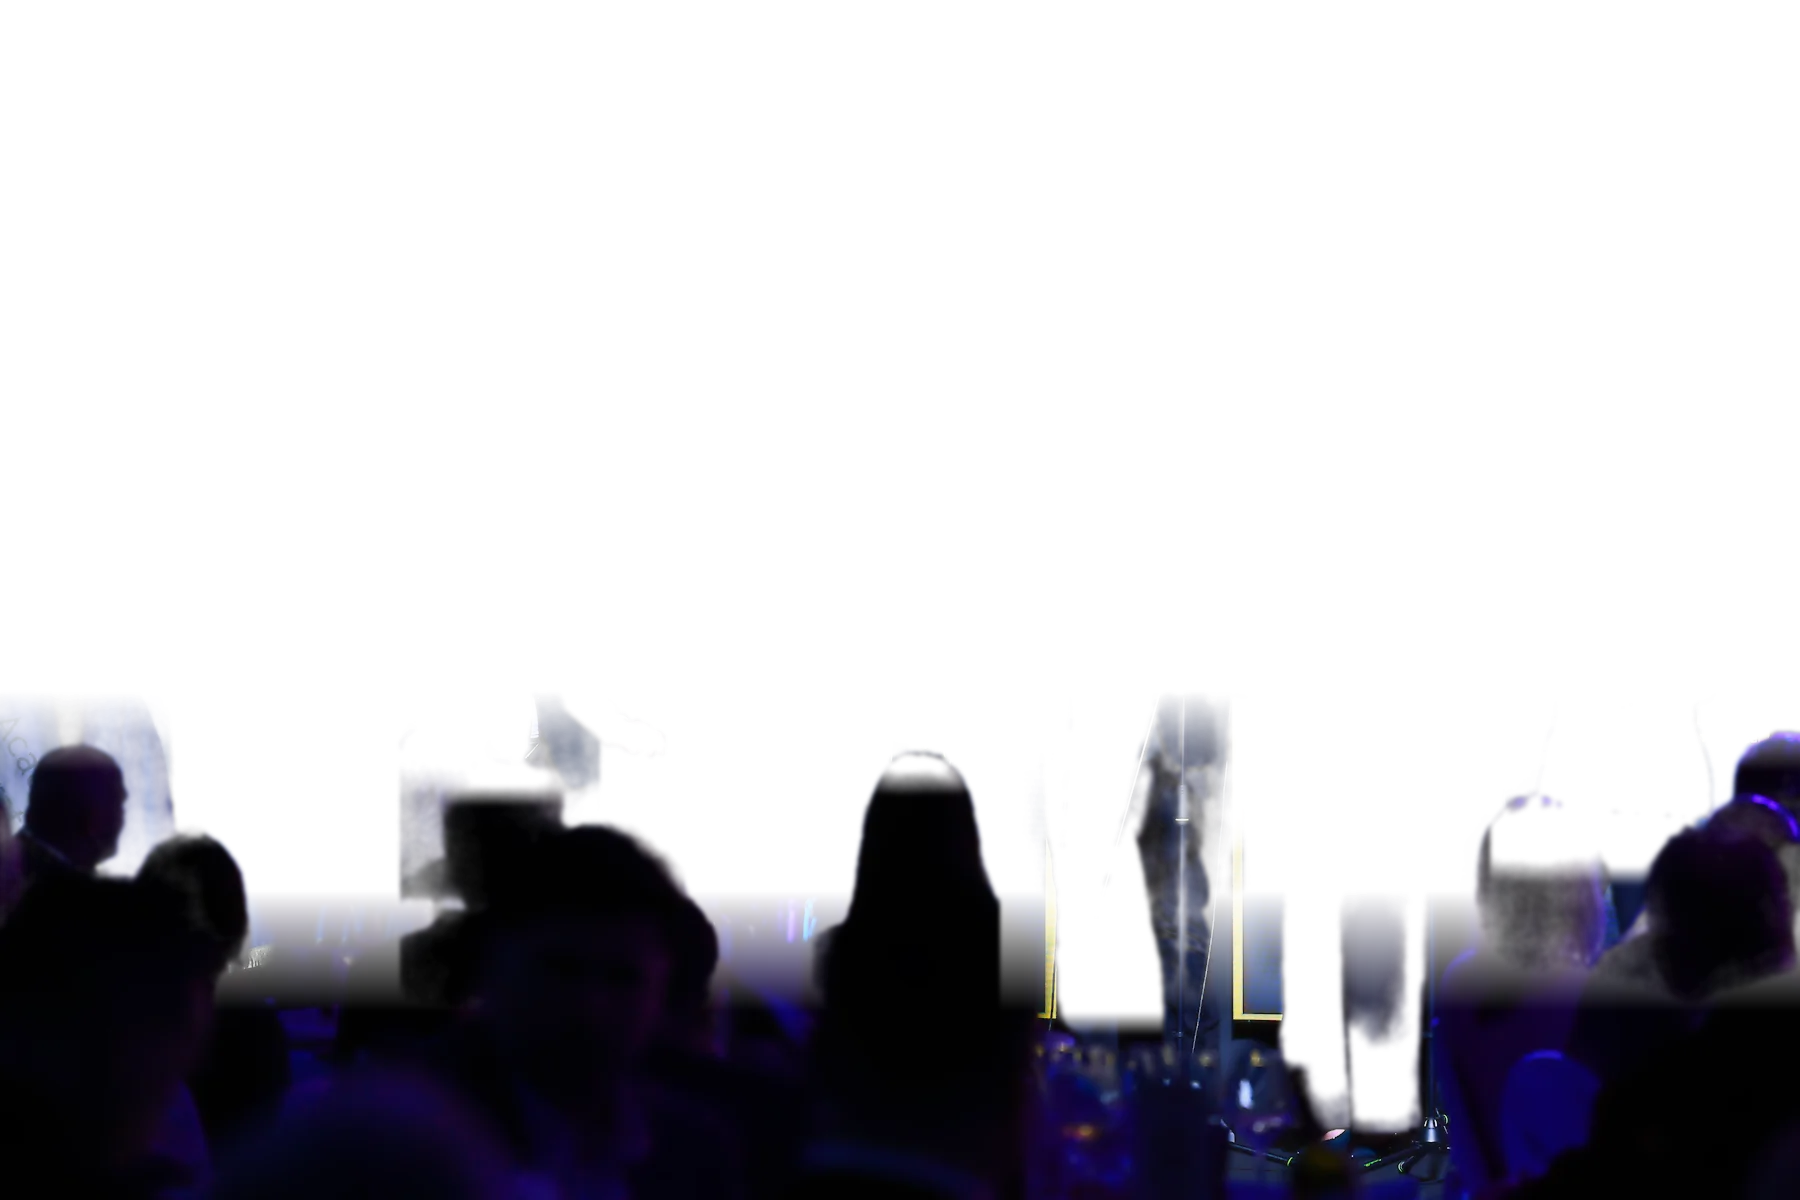
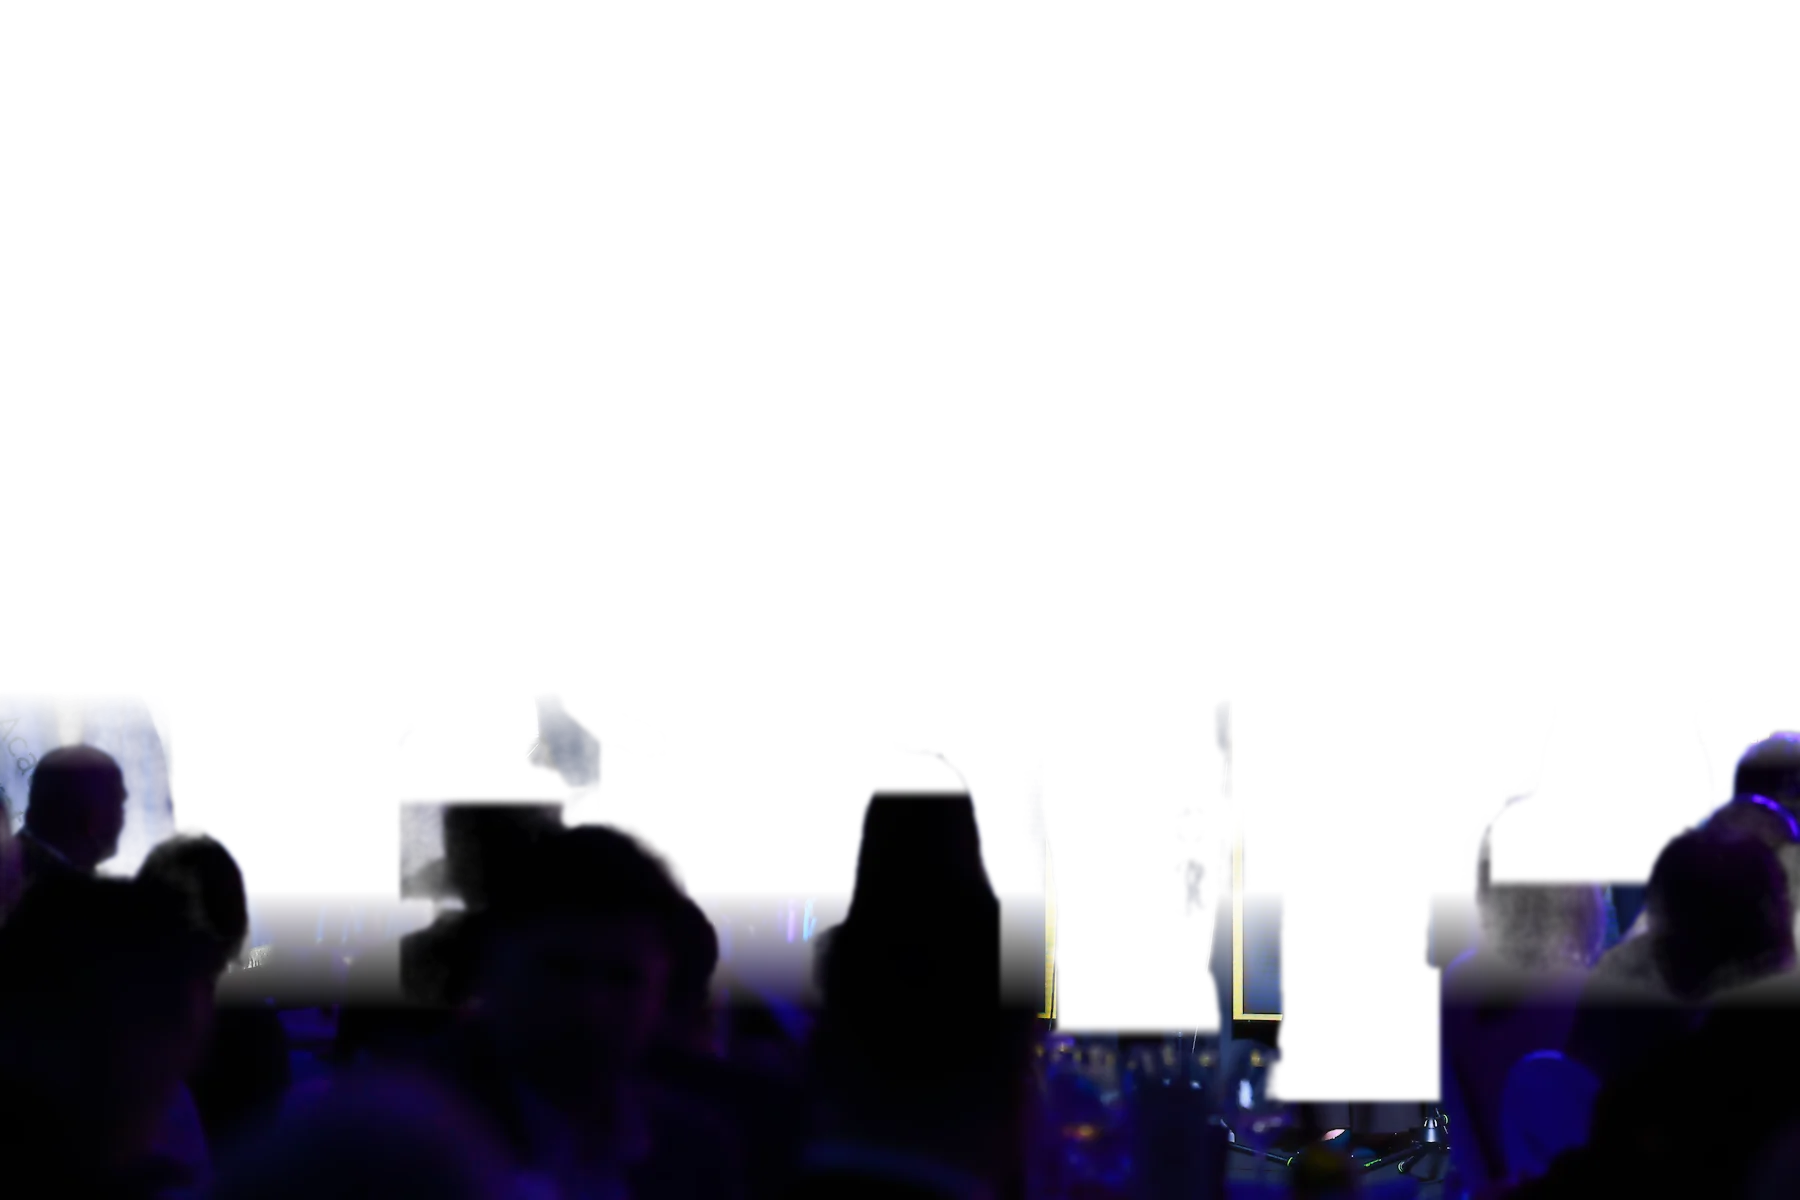
Home hero: old composition with a clean light rim (#74)
Brings back #69's matte and far-plane fixes and its light rim on the old
composition, with the rim drawn from a smoothed silhouette that stays off
hand cuts, column bounds and the frame edge. The square close becomes a
round one, and singer 5 loses a few yellow banner letters.

Portrait screens get the phone flow, so all five are in frame on an upright
tablet. On short wide windows the frame drops and the headline is capped at
12svh, so no text crosses singers 1 and 2's faces.

PREVIEW: the rim is built at 0.8 with a ?rim=0..3 switch for Josip; both
go before merge.

diff --git a/src/data/photos.ts b/src/data/photos.ts
@@ -25,6 +25,7 @@ import stageZlokicJozinovic from '@/assets/photos/stage-zlokic-jozinovic.jpg';
 // Home (ticket B): the hero's depth planes and the chord's five portraits.
 import heroFar from '@/assets/photos/home/hero-far.jpg';
 import heroFront from '@/assets/photos/home/hero-front.webp';
+import heroRim from '@/assets/photos/home/hero-rim.webp';
 import heroSubject from '@/assets/photos/home/hero-subject.webp';
 import portraitAnte from '@/assets/photos/home/portrait-ante.jpg';
 import portraitDavid from '@/assets/photos/home/portrait-david.jpg';
@@ -198,13 +199,15 @@ export const SHARE_PHOTO: PhotoKey = 'unisportStage';
  * (Westin, Zagreb; Drive `2026 Hrvatski Akademski Sportski Savez` ›
  * `Unisport_stars_R1JC7655_JC.jpg`, all five singing) and sharing its
  * 1800×1200 crop (3:2), so they line up by stacking. `far` is the whole crop
- * at 1600 px, defocused and dimmed, `subject` the five singers on alpha (Apple Vision
- * person matte, one tile per singer), `front` the audience below the stage
+ * at 1600 px with the singers taken out, defocused and dimmed, `subject` the five
+ * singers on alpha (Apple Vision person matte, one tile per singer), `rim` a soft
+ * white back-light around them (#67, #74), `front` the audience below the stage
  * line. Recipe: docs/home/BRIEF.md › Hero planes.
  */
 export const HERO_PLANES = {
   far: heroFar,
   subject: heroSubject,
+  rim: heroRim,
   front: heroFront,
   alt: {
     en: 'The five singers of Voxford singing at microphones on the Unisport Stars gala stage, the audience in silhouette in front',

diff --git a/scripts/hero-planes/planes.py b/scripts/hero-planes/planes.py
@@ -1,8 +1,8 @@
-"""Build the home hero planes (far, subject, front) from the 1800x1200 crop and
+"""Build the home hero planes (far, subject, front, rim) from the 1800x1200 crop and
 the per-tile Vision mattes that scripts/hero-planes/build.sh writes into <work>."""
 import sys
 import numpy as np
-from PIL import Image, ImageFilter
+from PIL import Image, ImageDraw, ImageFilter
 
 d = sys.argv[1]
 crop = Image.open(f'{d}/crop.png').convert('RGB')
@@ -14,6 +14,38 @@ def ramp(a, b):  # 1 above a, 0 below b
 
 def ramp_down(a, b):  # 0 above a, 1 below b
     return 1 - ramp(a, b)
+
+def to_image(a):  # a 0..1 float array as an 8-bit greyscale image
+    return Image.fromarray((np.clip(a, 0, 1) * 255).astype(np.uint8))
+
+def to_array(img):  # an 8-bit greyscale image as a 0..1 float array
+    return np.asarray(img, np.float32) / 255
+
+def dilate(mask, r):  # a boolean mask grown by an octagon of radius r (cross and square steps in turn: near enough a disk)
+    m = mask.copy()
+    for k in range(r):
+        if k % 2:
+            m = np.asarray(Image.fromarray(m.astype(np.uint8) * 255).filter(ImageFilter.MaxFilter(3))) > 0
+        else:
+            c = m.copy()
+            c[1:] |= m[:-1]
+            c[:-1] |= m[1:]
+            c[:, 1:] |= m[:, :-1]
+            c[:, :-1] |= m[:, 1:]
+            m = c
+    return m
+
+def erode(mask, r):  # a boolean mask shrunk by the same octagon
+    return ~dilate(~mask, r)
+
+def blurred(a, r):  # a 0..1 float array, Gaussian-blurred
+    return to_array(to_image(a).filter(ImageFilter.GaussianBlur(r)))
+
+def filled(mask):  # a boolean mask with every enclosed hole filled
+    pad = Image.new('L', (W + 2, H + 2), 0)
+    pad.paste(to_image(mask), (1, 1))
+    ImageDraw.floodfill(pad, (0, 0), 128)
+    return np.asarray(pad, np.uint8)[1:-1, 1:-1] != 128
 
 # Singers: tile x offset, tile y offset, column x0..x1, fade start..end
 singers = [
@@ -29,6 +61,20 @@ for i, tx, ty, x0, x1, f0, f1 in singers:
     full = np.zeros((H, W), np.float32)
     h, w = m.shape
     full[ty:ty + h, tx:tx + w] = m[: H - ty, : W - tx]
+    for bi, bx, by in ((2, 690, 380), (3, 975, 330), (4, 1215, 400)):
+        if i == bi:
+            mb = np.asarray(Image.open(f'{d}/tmask{i}b.png').convert('L'), np.float32) / 255
+            hb, wb = mb.shape
+            if i == 4:
+                # Singer 4's wide tile takes a block of the sponsor banner around
+                # her hand and microphone; the tight one alone is clean.
+                full[:] = 0
+            full[by:by + hb, bx:bx + wb] = np.maximum(full[by:by + hb, bx:bx + wb], mb)
+    # Close the narrow gaps a microphone stand cuts through a singer: the
+    # stand stands in front of them, so it belongs to this plane.
+    # A round close: a square one left stair-stepped corners that the rim then outlined (#74).
+    closed = blurred(erode(dilate(full > 0.3, 12), 12).astype(np.float32), 1)
+    full = np.maximum(full, closed)
     col = np.zeros((1, W), np.float32)
     col[0, x0:x1] = 1
     full *= col * ramp(f0, f1)
@@ -40,8 +86,61 @@ drape = np.zeros((H, W), np.float32)
 drape[500:800, 1395:1480] = np.clip((lum[500:800, 1395:1480] - 0.42) / 0.18, 0, 1)
 subject = np.maximum(subject, drape * ramp(1090, 1150))
 
-# Clean the matte: drop faint noise, keep soft edges.
-subject = np.clip((subject - 0.08) / 0.32, 0, 1)
+# Clean the matte: drop faint noise, keep soft edges. Vision's outlines are
+# crisp; its faint values sit inside dark clothes and on the microphones, so a
+# low, steep ramp makes those solid without growing a halo.
+subject = np.clip((subject - 0.04) / 0.16, 0, 1)
+# Fill what the matte still encloses (singer 4's dark trousers): a hole there
+# showed the far plane through her.
+hard = subject > 0.5
+subject = np.maximum(subject, (filled(hard) & ~hard).astype(np.float32))
+
+# Hand fixes, after the hole fill so it cannot close them again. Every box they
+# cut is listed in `cuts`: its straight sides are not the singers' outline, so
+# the rim stays off them (#74).
+cuts = []
+# Singer 2's tight tile takes in the gold foundation logo beside her hip.
+box = (slice(600, 820), slice(860, 990))
+rgbf = np.asarray(crop, np.float32)[box]
+gold = (rgbf[..., 0] - rgbf[..., 2] > 50) & (rgbf[..., 1] > 80)
+subject[box][gold] = 0
+cuts.append(box)
+# ...and a stand and a dark audience head on either side of her.
+for box in ((slice(560, 760), slice(945, 990)), (slice(620, 800), slice(700, 742))):
+    subject[box] = 0
+    cuts.append(box)
+# Vision takes a block of the sponsor banner (navy ground, logo, lettering)
+# around singer 4's hand and microphone. Inside that block keep only the
+# microphone and her hand, drawn by hand on the 1800x1200 crop.
+keep = Image.new('L', (W, H), 0)
+draw = ImageDraw.Draw(keep)
+draw.line([(1250, 542), (1332, 488)], fill=255, width=15)
+draw.polygon([(1270, 506), (1300, 499), (1303, 522), (1299, 536), (1301, 582), (1270, 582), (1266, 546)], fill=255)
+keep = np.asarray(keep.filter(ImageFilter.GaussianBlur(1)), np.float32) / 255
+box = (slice(478, 582), slice(1246, 1322))
+subject[box] = np.minimum(subject[box], keep[box])
+cuts.append(box)
+# The lettering runs on under her chin, left of her hair: drop its navy
+# ground and pale or yellow letters there; her hair is darker than all three.
+box = (slice(518, 550), slice(1299, 1346))
+r, g, b = (np.asarray(crop, np.float32)[box][..., k] for k in range(3))
+lo, hi = np.minimum(np.minimum(r, g), b), np.maximum(np.maximum(r, g), b)
+subject[box][(b > r) | ((lo > 140) & (hi - lo < 70)) | ((r - b > 40) & (g > 100) & (np.abs(r - g) < 50))] = 0
+cuts.append(box)
+# Above that, beside her chin, one yellow letter and its navy ground.
+box = (slice(486, 518), slice(1318, 1340))
+r, g, b = (np.asarray(crop, np.float32)[box][..., k] for k in range(3))
+subject[box][(b > r) | ((r - b > 40) & (g > 100) & (np.abs(r - g) < 50))] = 0
+cuts.append(box)
+# Singer 4's tight tile takes in an audience head beside her legs; the front row has it.
+# Singer 5's matte keeps a few yellow banner letters: at the top of his hair,
+# between his beard and collar, and at his back. Drop the yellow there (#74).
+for box in ((slice(380, 405), slice(1575, 1605)), (slice(495, 530), slice(1575, 1610)), (slice(700, 745), slice(1688, 1714))):
+    r, g, b = (np.asarray(crop, np.float32)[box][..., k] for k in range(3))
+    subject[box][(r - b > 40) & (g > 100) & (np.abs(r - g) < 50)] = 0
+box = (slice(860, 1150), slice(1440, 1490))
+subject[box] = 0
+cuts.append(box)
 subject = np.asarray(Image.fromarray((subject * 255).astype(np.uint8)).filter(ImageFilter.GaussianBlur(1.2)), np.float32) / 255
 
 # Front: the audience. Vision finds the lit heads on the left; the dark band
@@ -61,9 +160,59 @@ for name, a in (('subject', subject), ('front', front)):
     rgba = np.dstack([rgb, (a * 255).astype(np.uint8)])
     Image.fromarray(rgba, 'RGBA').save(f'{d}/hero-{name}.png')
 
+# Rim: a soft white back-light around the five, under the subject (#67). The
+# matte's own edge is too rough to outline (#74): a bright rim showed every
+# stair-step, stand and hand-cut box. So the rim is drawn from a smoothed
+# silhouette instead: the matte with its holes filled, opened by a disk (no
+# stands, cables or specks) and blurred and re-thresholded (a smooth outline).
+hard = filled(subject > 0.5)
+body = dilate(erode(hard, 8), 8)
+body = blurred(body.astype(np.float32), 4) > 0.5
+# It stays off every straight edge that is not a singer's outline: the hand
+# cuts, the singers' column bounds, the frame's edges and the top of singer 4's
+# tight tile (her matte comes from it alone).
+lines = np.zeros((H, W), bool)
+lines[:, [0, W - 1]] = lines[[0, H - 1], :] = True
+for _, _, _, x0, x1, _, _ in singers:
+    lines[:, [x0, x1 - 1]] = True
+lines[400, 1215:1515] = True
+for yb, xb in cuts:
+    lines[yb.start, xb] = lines[yb.stop - 1, xb] = lines[yb, xb.start] = lines[yb, xb.stop - 1] = True
+cut_edge = lines & dilate(hard, 3)
+off = blurred(dilate(cut_edge, 24).astype(np.float32), 10)
+# ...and fades out above each singer's cut line, where the front row takes over.
+fade = np.ones((H, W), np.float32)
+for _, _, _, x0, x1, f0, _ in singers:
+    fade[:, x0:x1] = np.clip((f0 - 30 - ys) / 90, 0, 1)
+# PREVIEW (#74): built at the strongest variant; the page scales it down per ?rim=.
+RIM = 0.8
+glow = blurred(dilate(body, 4).astype(np.float32), 10)
+rim = np.clip(glow - blurred(body.astype(np.float32), 1.5), 0, 1) * fade * (1 - off) * RIM
+rgba = np.zeros((H, W, 4), np.uint8)
+rgba[..., :3] = 255
+rgba[..., 3] = (rim * 255).astype(np.uint8)
+Image.fromarray(rgba, 'RGBA').save(f'{d}/hero-rim.png')
+
 # Far: the whole frame, defocused, dimmed and a little desaturated so the
 # sponsor banners read as light, not logos.
-far = crop.resize((1600, 1067), Image.LANCZOS).filter(ImageFilter.GaussianBlur(14))
+# The singers are taken out first: blurred in place they left a soft ghost
+# around each sharp singer, which read as a cut-out halo. Their area is filled
+# from the backdrop around it (normalised blur), then the whole frame is defocused.
+hole = np.asarray(Image.fromarray((subject * 255).astype(np.uint8)).filter(ImageFilter.MaxFilter(9)).filter(ImageFilter.GaussianBlur(4)), np.float32) / 255
+src = np.asarray(crop, np.float32)
+known = hole < 0.02
+fill = src * known[:, :, None]
+def blur(a, r):
+    return np.asarray(Image.fromarray(np.clip(a, 0, 255).astype(np.uint8)).filter(ImageFilter.GaussianBlur(r)), np.float32)
+for r in (8, 16, 32, 64, 128):
+    num = blur(fill, r)
+    den = blur(known.astype(np.float32) * 255, r)[:, :, None] / 255
+    est = num / np.maximum(den, 1e-3)
+    reached = (den[:, :, 0] > 0.05) & ~known
+    fill[reached] = est[reached]
+    known = known | reached
+clean = Image.fromarray(np.clip(src * (1 - hole[:, :, None]) + fill * hole[:, :, None], 0, 255).astype(np.uint8))
+far = clean.resize((1600, 1067), Image.LANCZOS).filter(ImageFilter.GaussianBlur(14))
 arr = np.asarray(far, np.float32)
 grey = arr.mean(axis=2, keepdims=True)
 arr = (grey + (arr - grey) * 0.75) * 0.78
